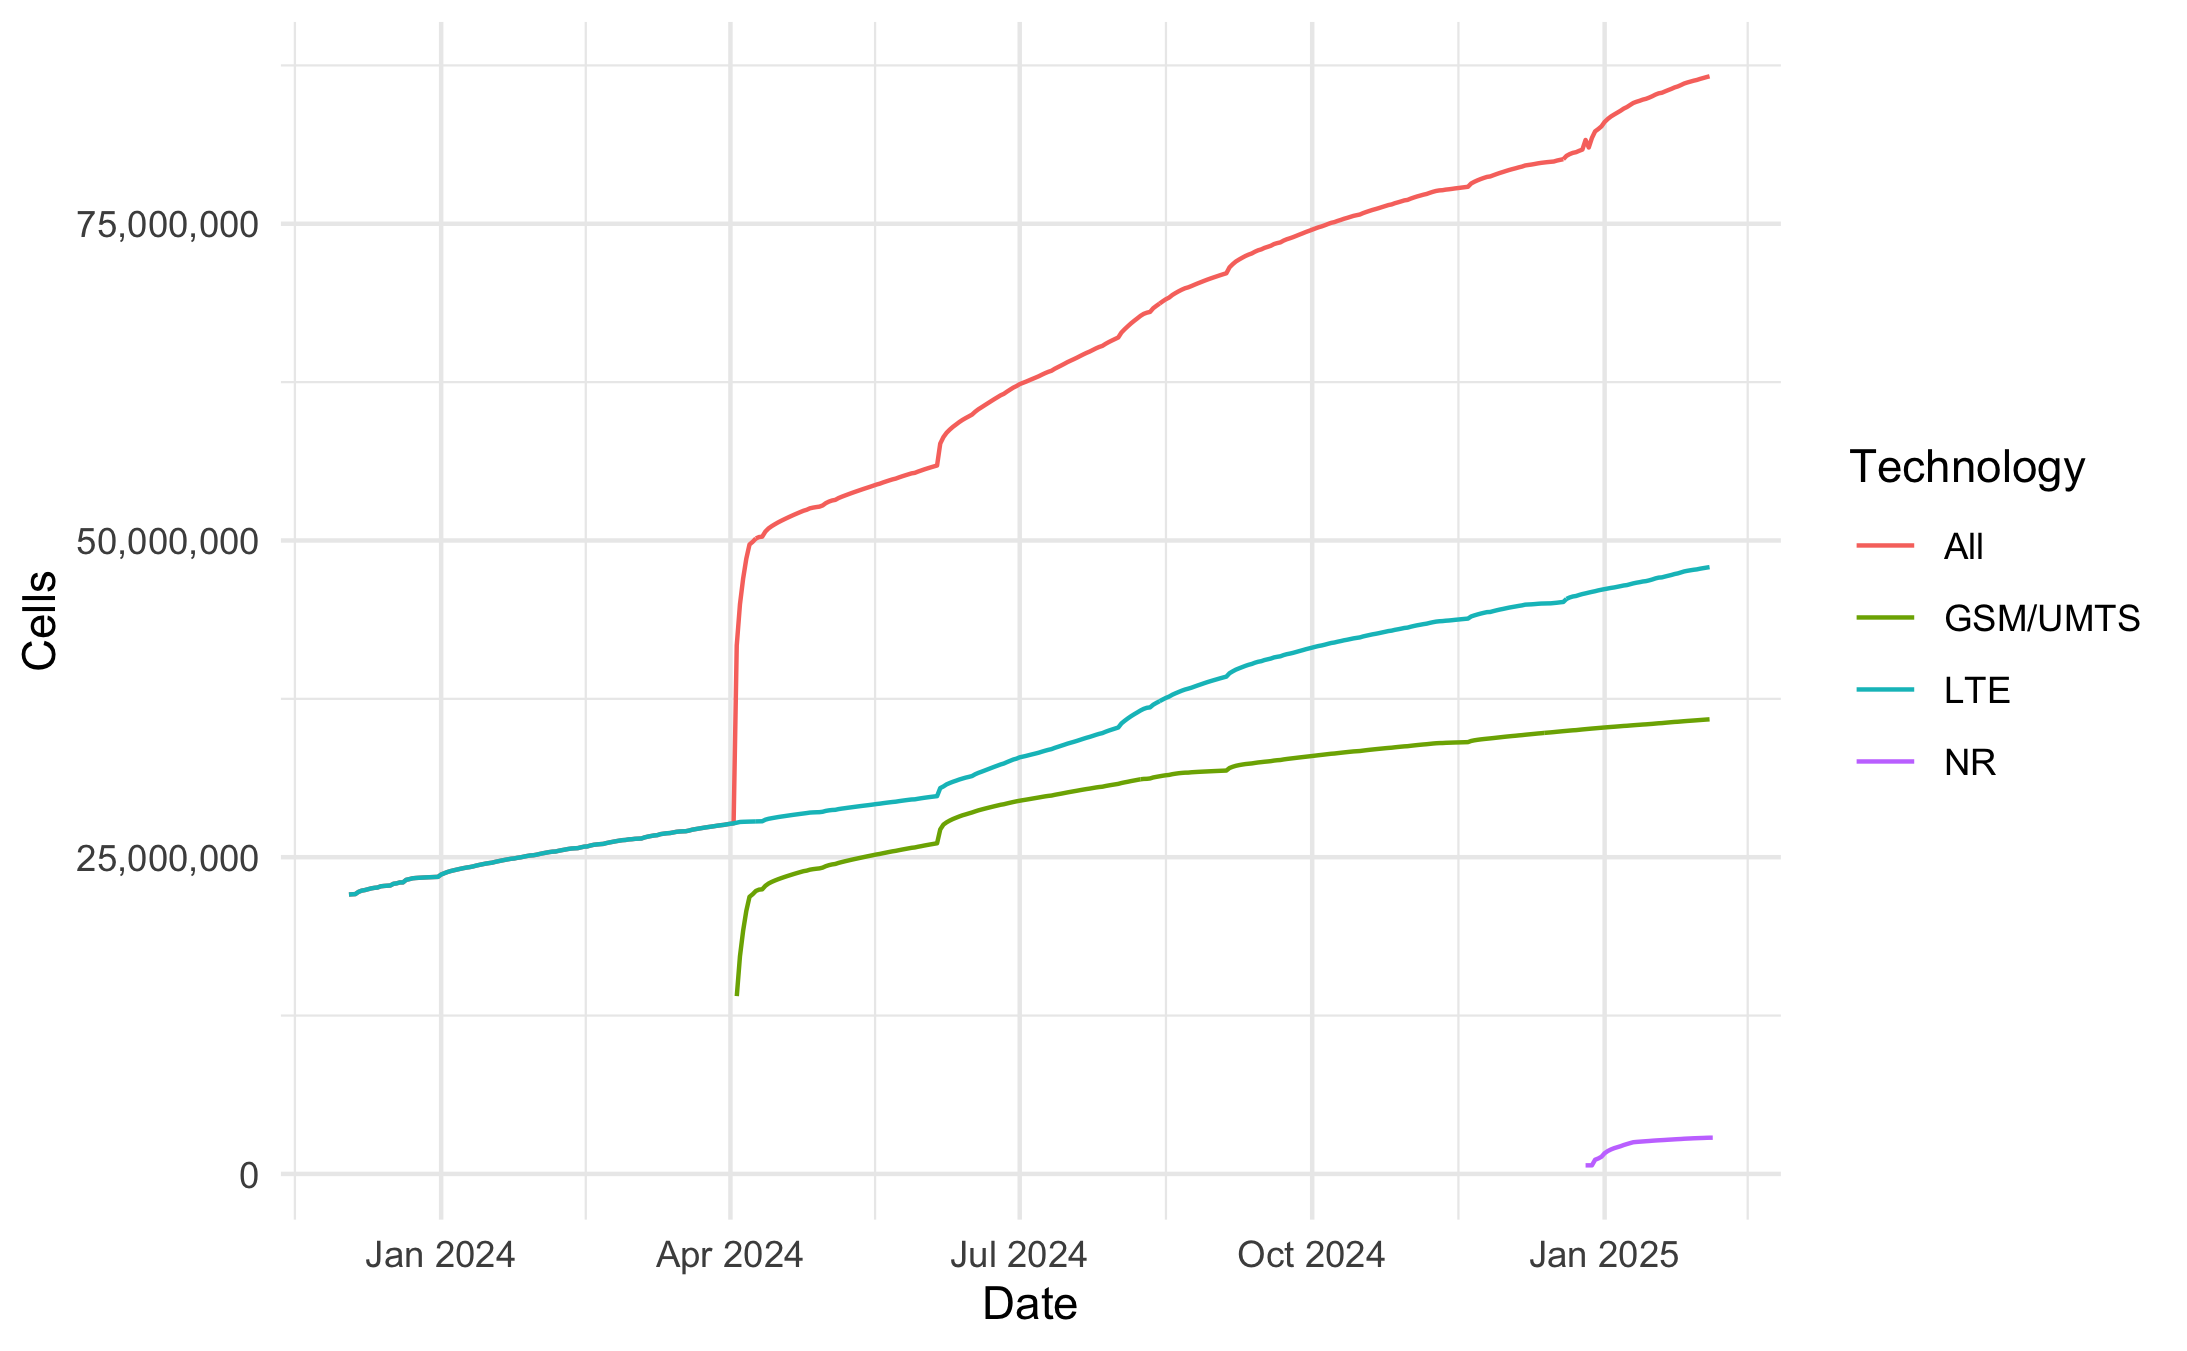
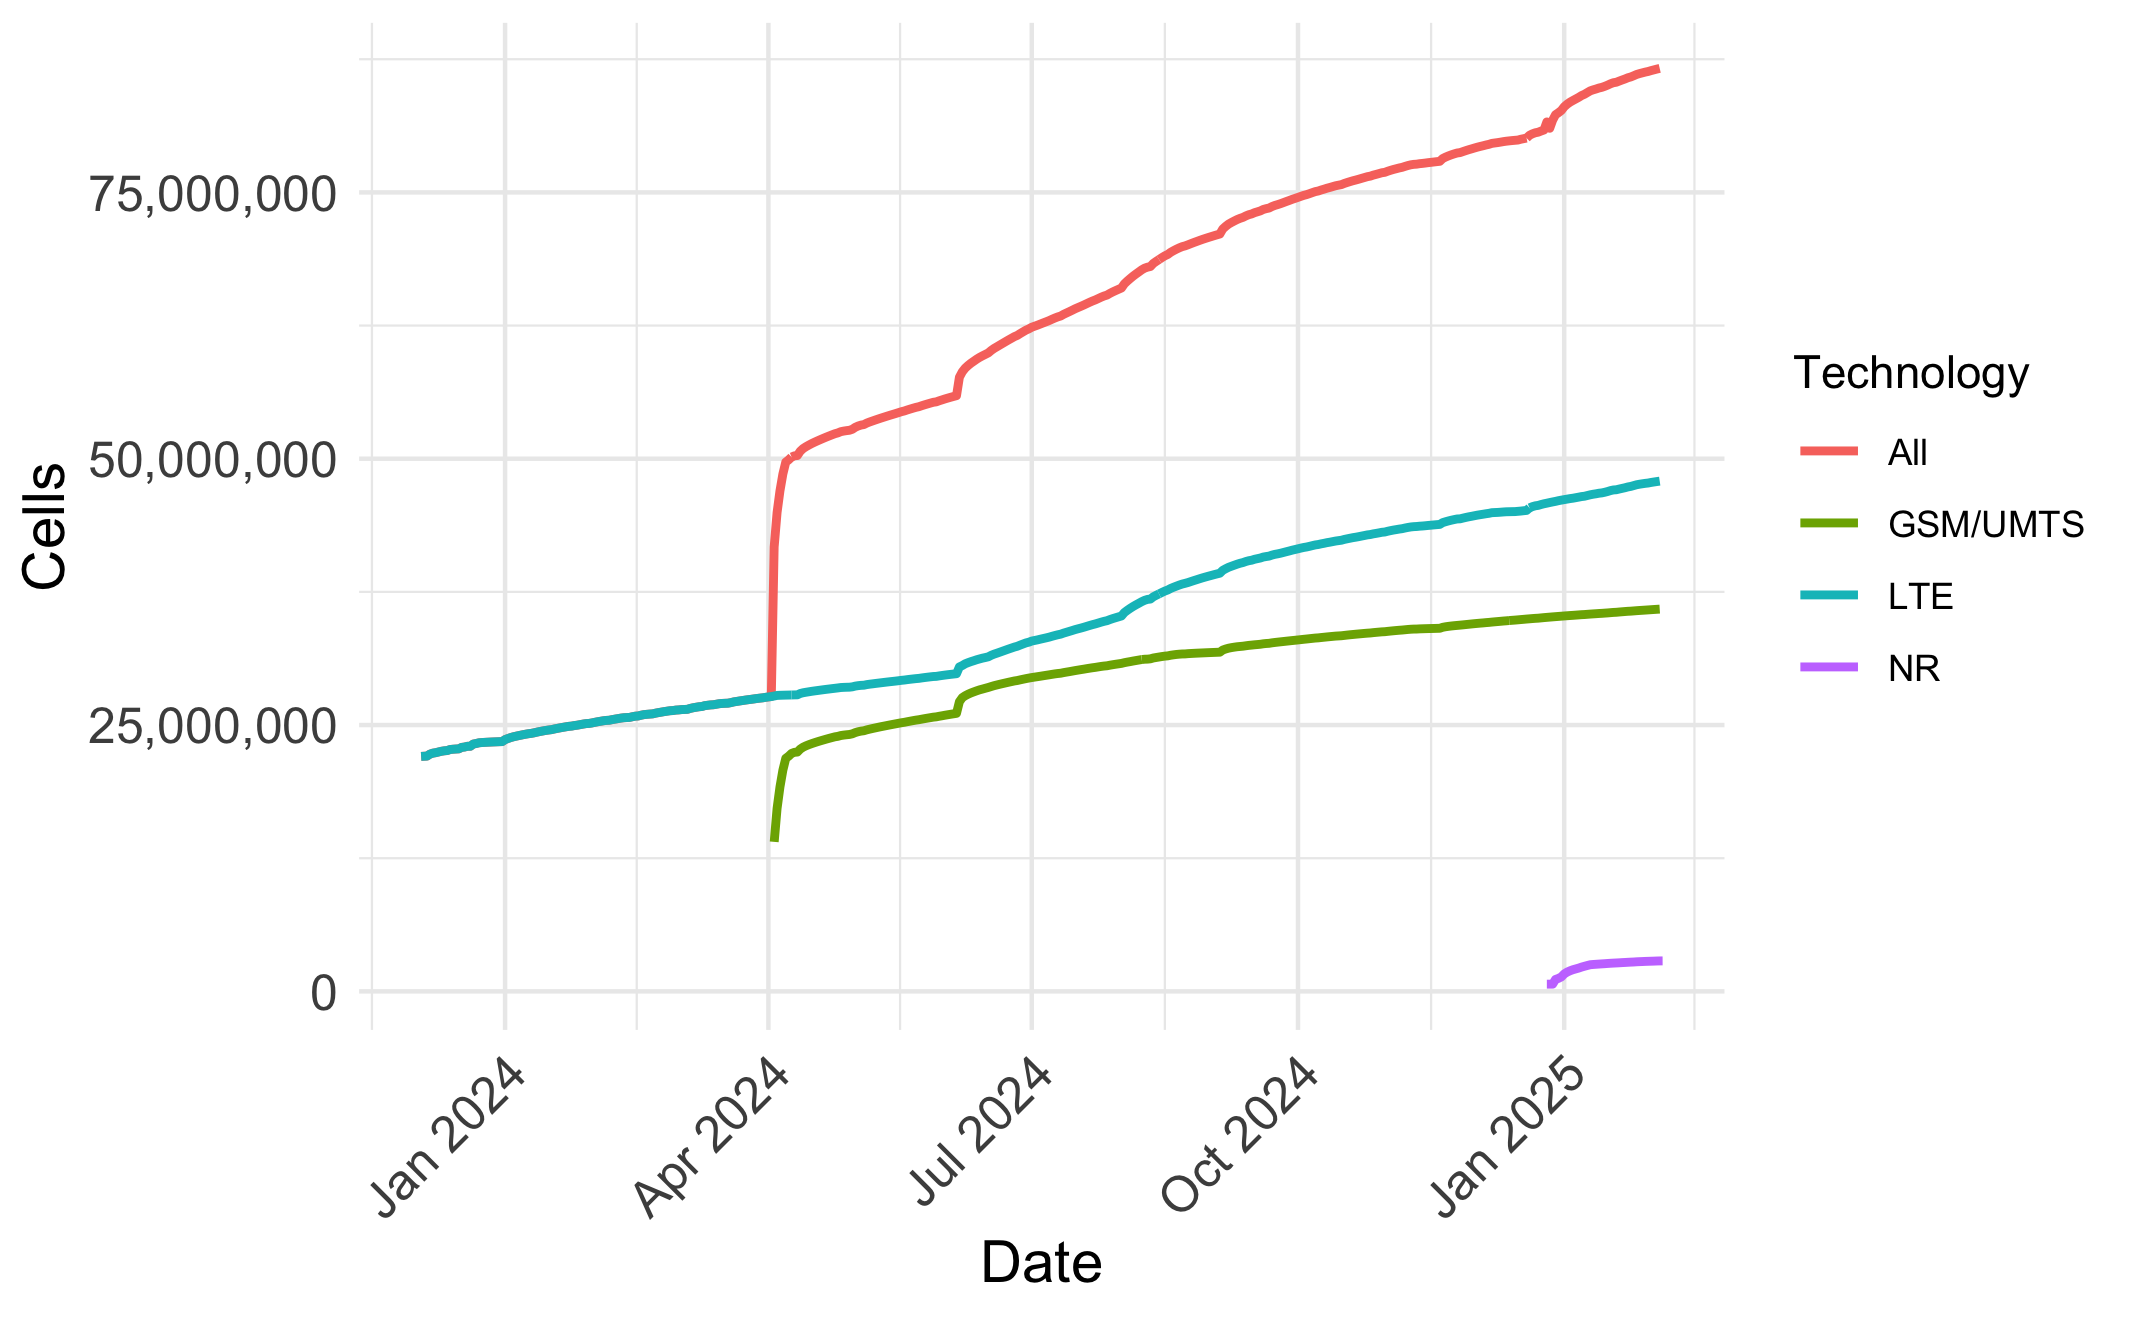
background wip

diff --git a/paper/background.tex b/paper/background.tex
@@ -14,7 +14,7 @@ or cellular base stations---with known locations to provide devices attempting
 to self-geolocate with reference points to do so. \acp{WPS} use
 \acp{BSSID}---MAC addresses of \wifi \acp{AP}---that are broadcast in 802.11
 \wifi management frames to identify nearby landmarks, while \acp{CPS} use
-identifiers broadcast by cellular base stations to identify these landmarks.
+identifiers broadcast by cellular \acp{BTS} to identify these landmarks.
 
 While prior work~\cite{rye2024surveilling, han2022location,
 tippenhauer2009attacks} examined the operation and privacy issues associated
@@ -67,3 +67,29 @@ between technology generations. In this work, when the distinction between the
 identifier used to specify a cell's location area or region is immaterial, we
 refer to this identifier as a \ac{LAC}. We refer to the cell identifier,
 irrespective of generation and bit-length, as the \ac{CID} throughout this work. 
+
+\subsection{Apple's \ac{CPS}}
+\label{sec:cps}
+
+Lastly, we describe the operation of one \ac{CPS} in particular---that run by
+Apple to support devices in its ecosystem. Apple's \ac{CPS} operates in two
+distinct but concurrent phases. In the \emph{CPS data collection} phase, cellular
+Apple devices (\eg iPhones, cellular-capable iPads) collect identifiers
+advertised by nearby cellular \acp{BTS}. Periodically, these devices upload
+the identifiers they observed, along with the locations they were at when they
+observed them, the received signal strength of the observation, and other
+metadata information. These reports populate the database of cellular landmarks
+that Apple uses. Apple devices need not connect to a particular \ac{BTS} for
+it to be used as a landmark, and they report cellular infrastructure for
+\acp{MNO} they are not subscribers of.
+
+In the \emph{CPS geolocation} phase, a device in Apple's ecosystem uses these
+previously-collected cellular landmarks for geolocation. For an Apple device to
+obtain its location using the \ac{CPS}, it samples the cellular frequency bands
+for nearby identifiers, and queries a specific Apple API endpoint for this
+purpose. Apple, if it has entries for the cellular identifiers requested by the
+client in its database, will return the geolocations of those landmarks. Then,
+using the received signals strengths from those nearby cellular landmarks, the
+Apple device can estimate its own position. However, like Apple's \ac{WPS},
+Apple's \ac{CPS} returns up to \textcolor{red}{how many??} additional
+unrequested landmarks \emph{near} the landmarks that were requested. 

diff --git a/paper/preamble.tex b/paper/preamble.tex
@@ -38,6 +38,8 @@
 % Commands {{{
 
 \newcommand{\etal}{et~al.\xspace}
+\newcommand{\eg}{e.g.\xspace}
+\newcommand{\ie}{i.e.\xspace}
 
 \newcommand{\cps}{\ac{CPS}\xspace}
 \newcommand{\wps}{\ac{WPS}\xspace}

diff --git a/paper/methodology.tex b/paper/methodology.tex
@@ -1,2 +1,4 @@
 \section{Methodology}
 \label{sec:methodology}
+
+
